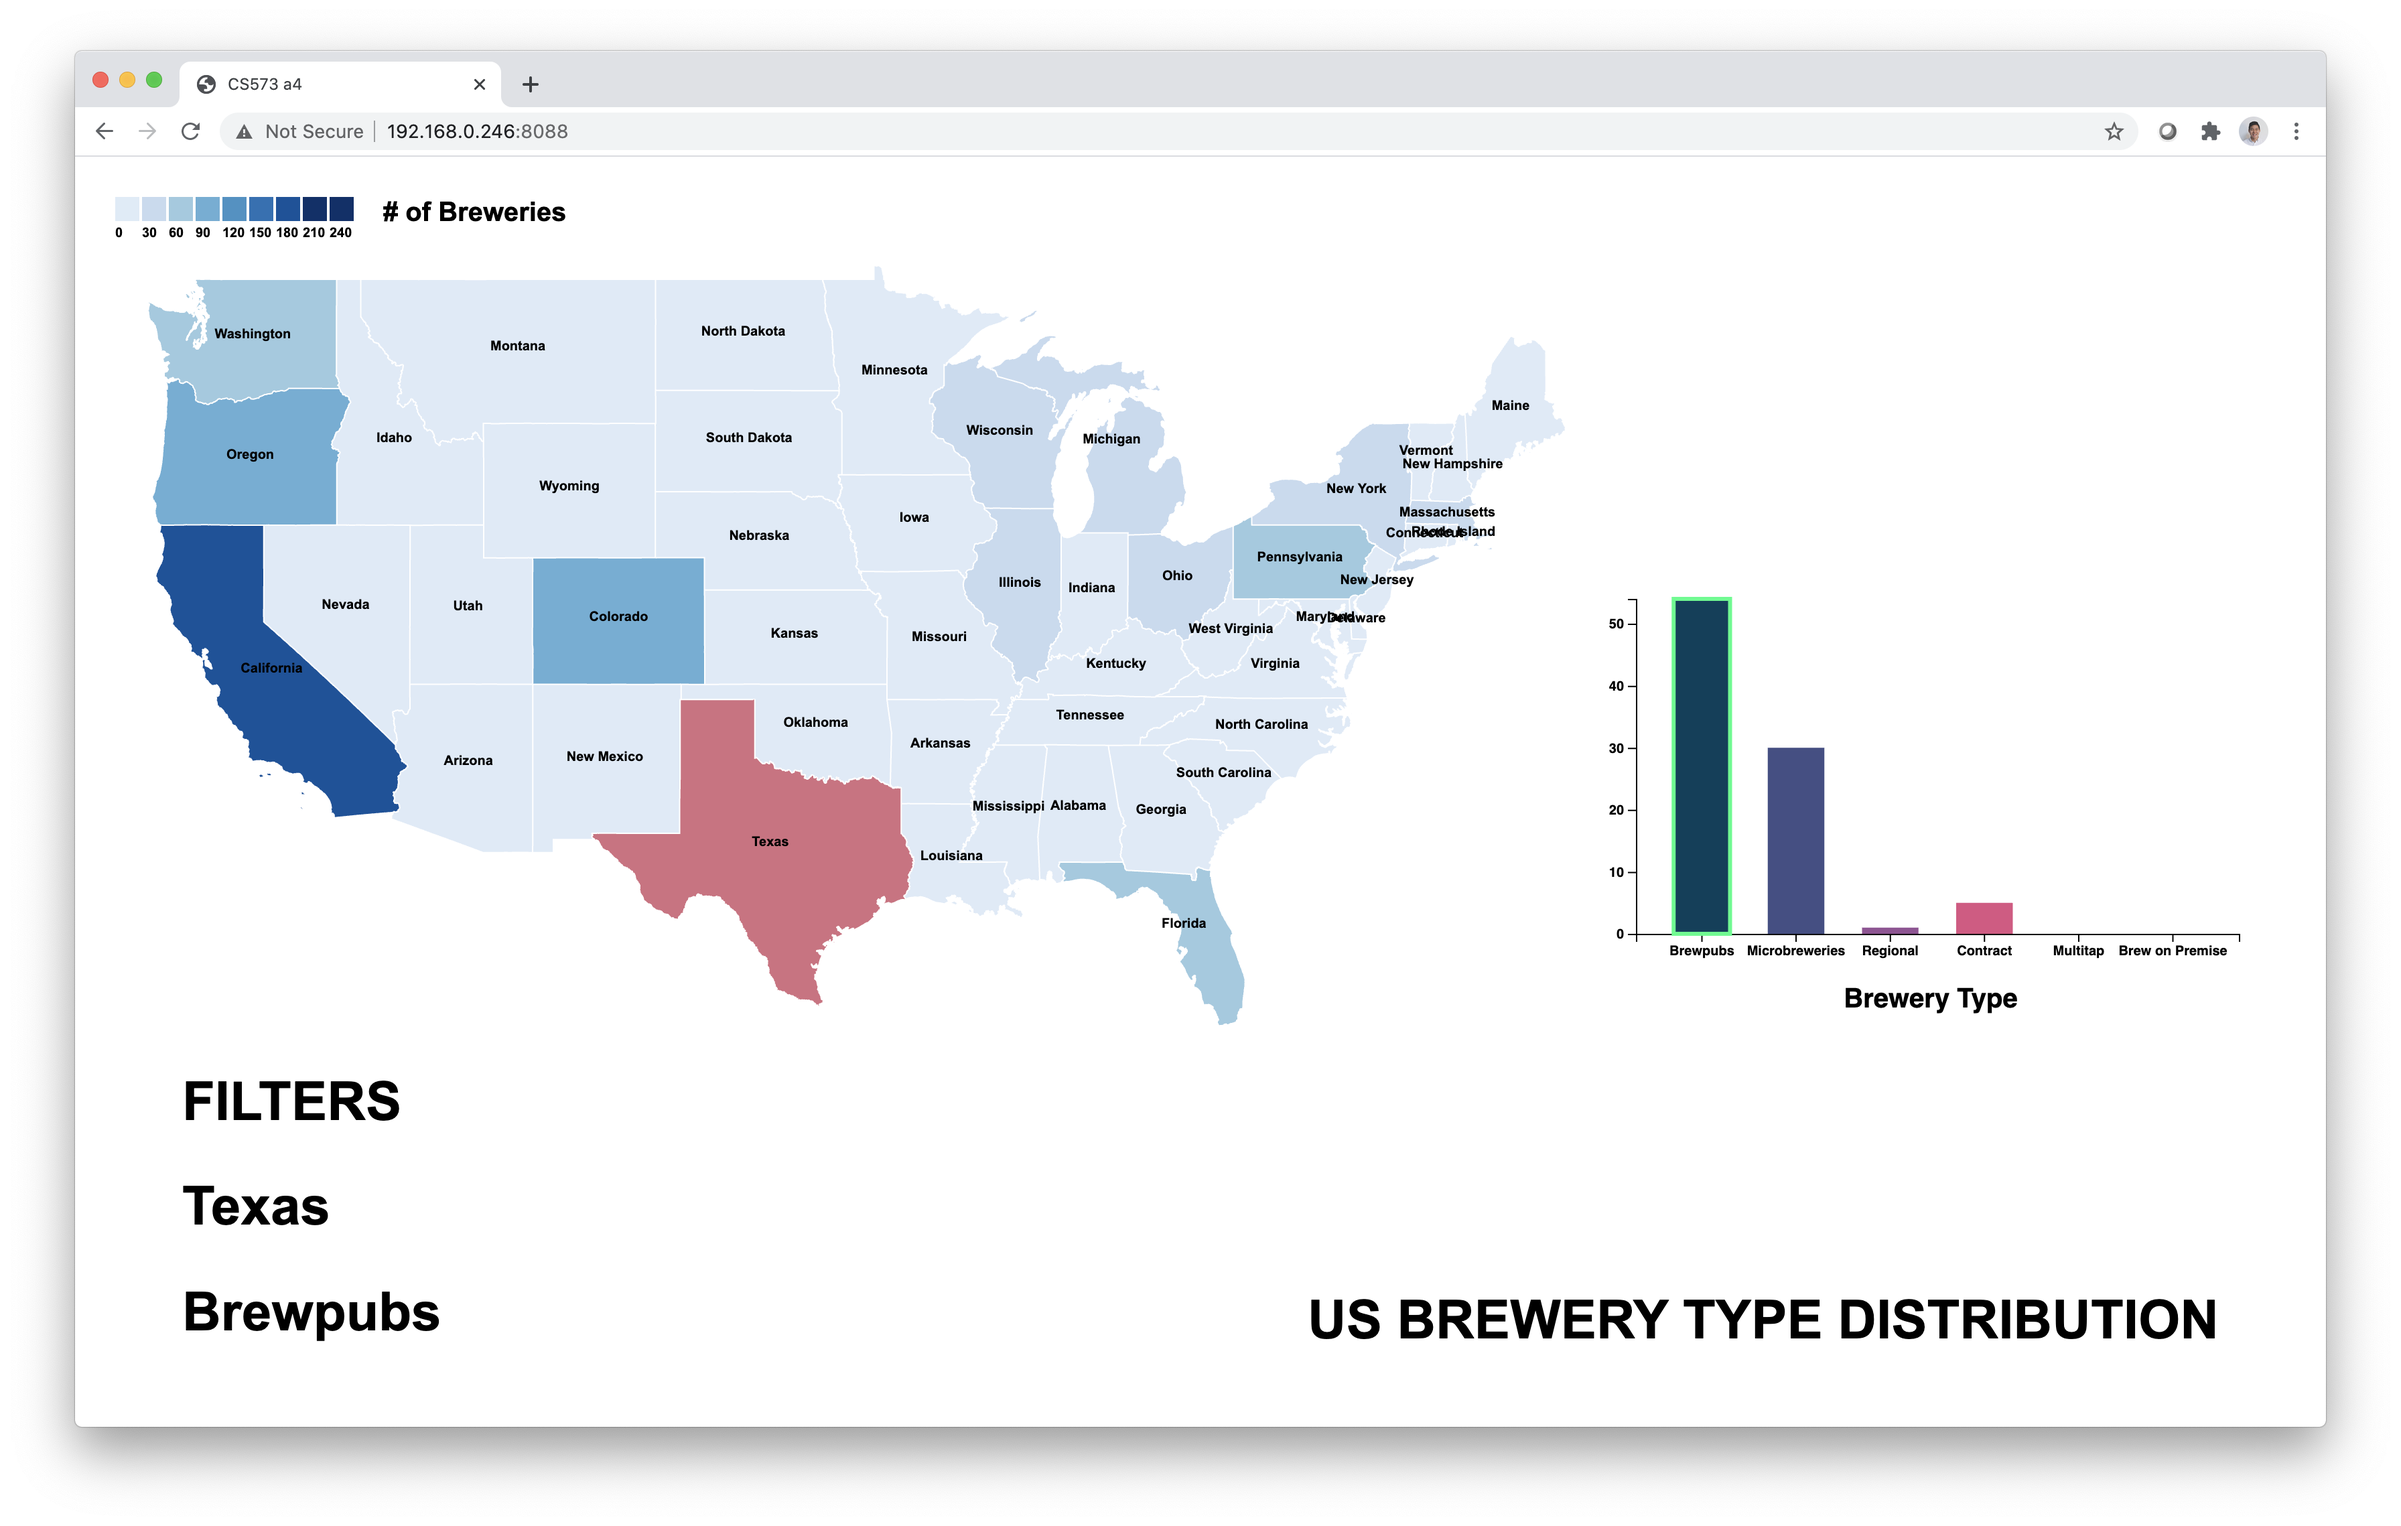
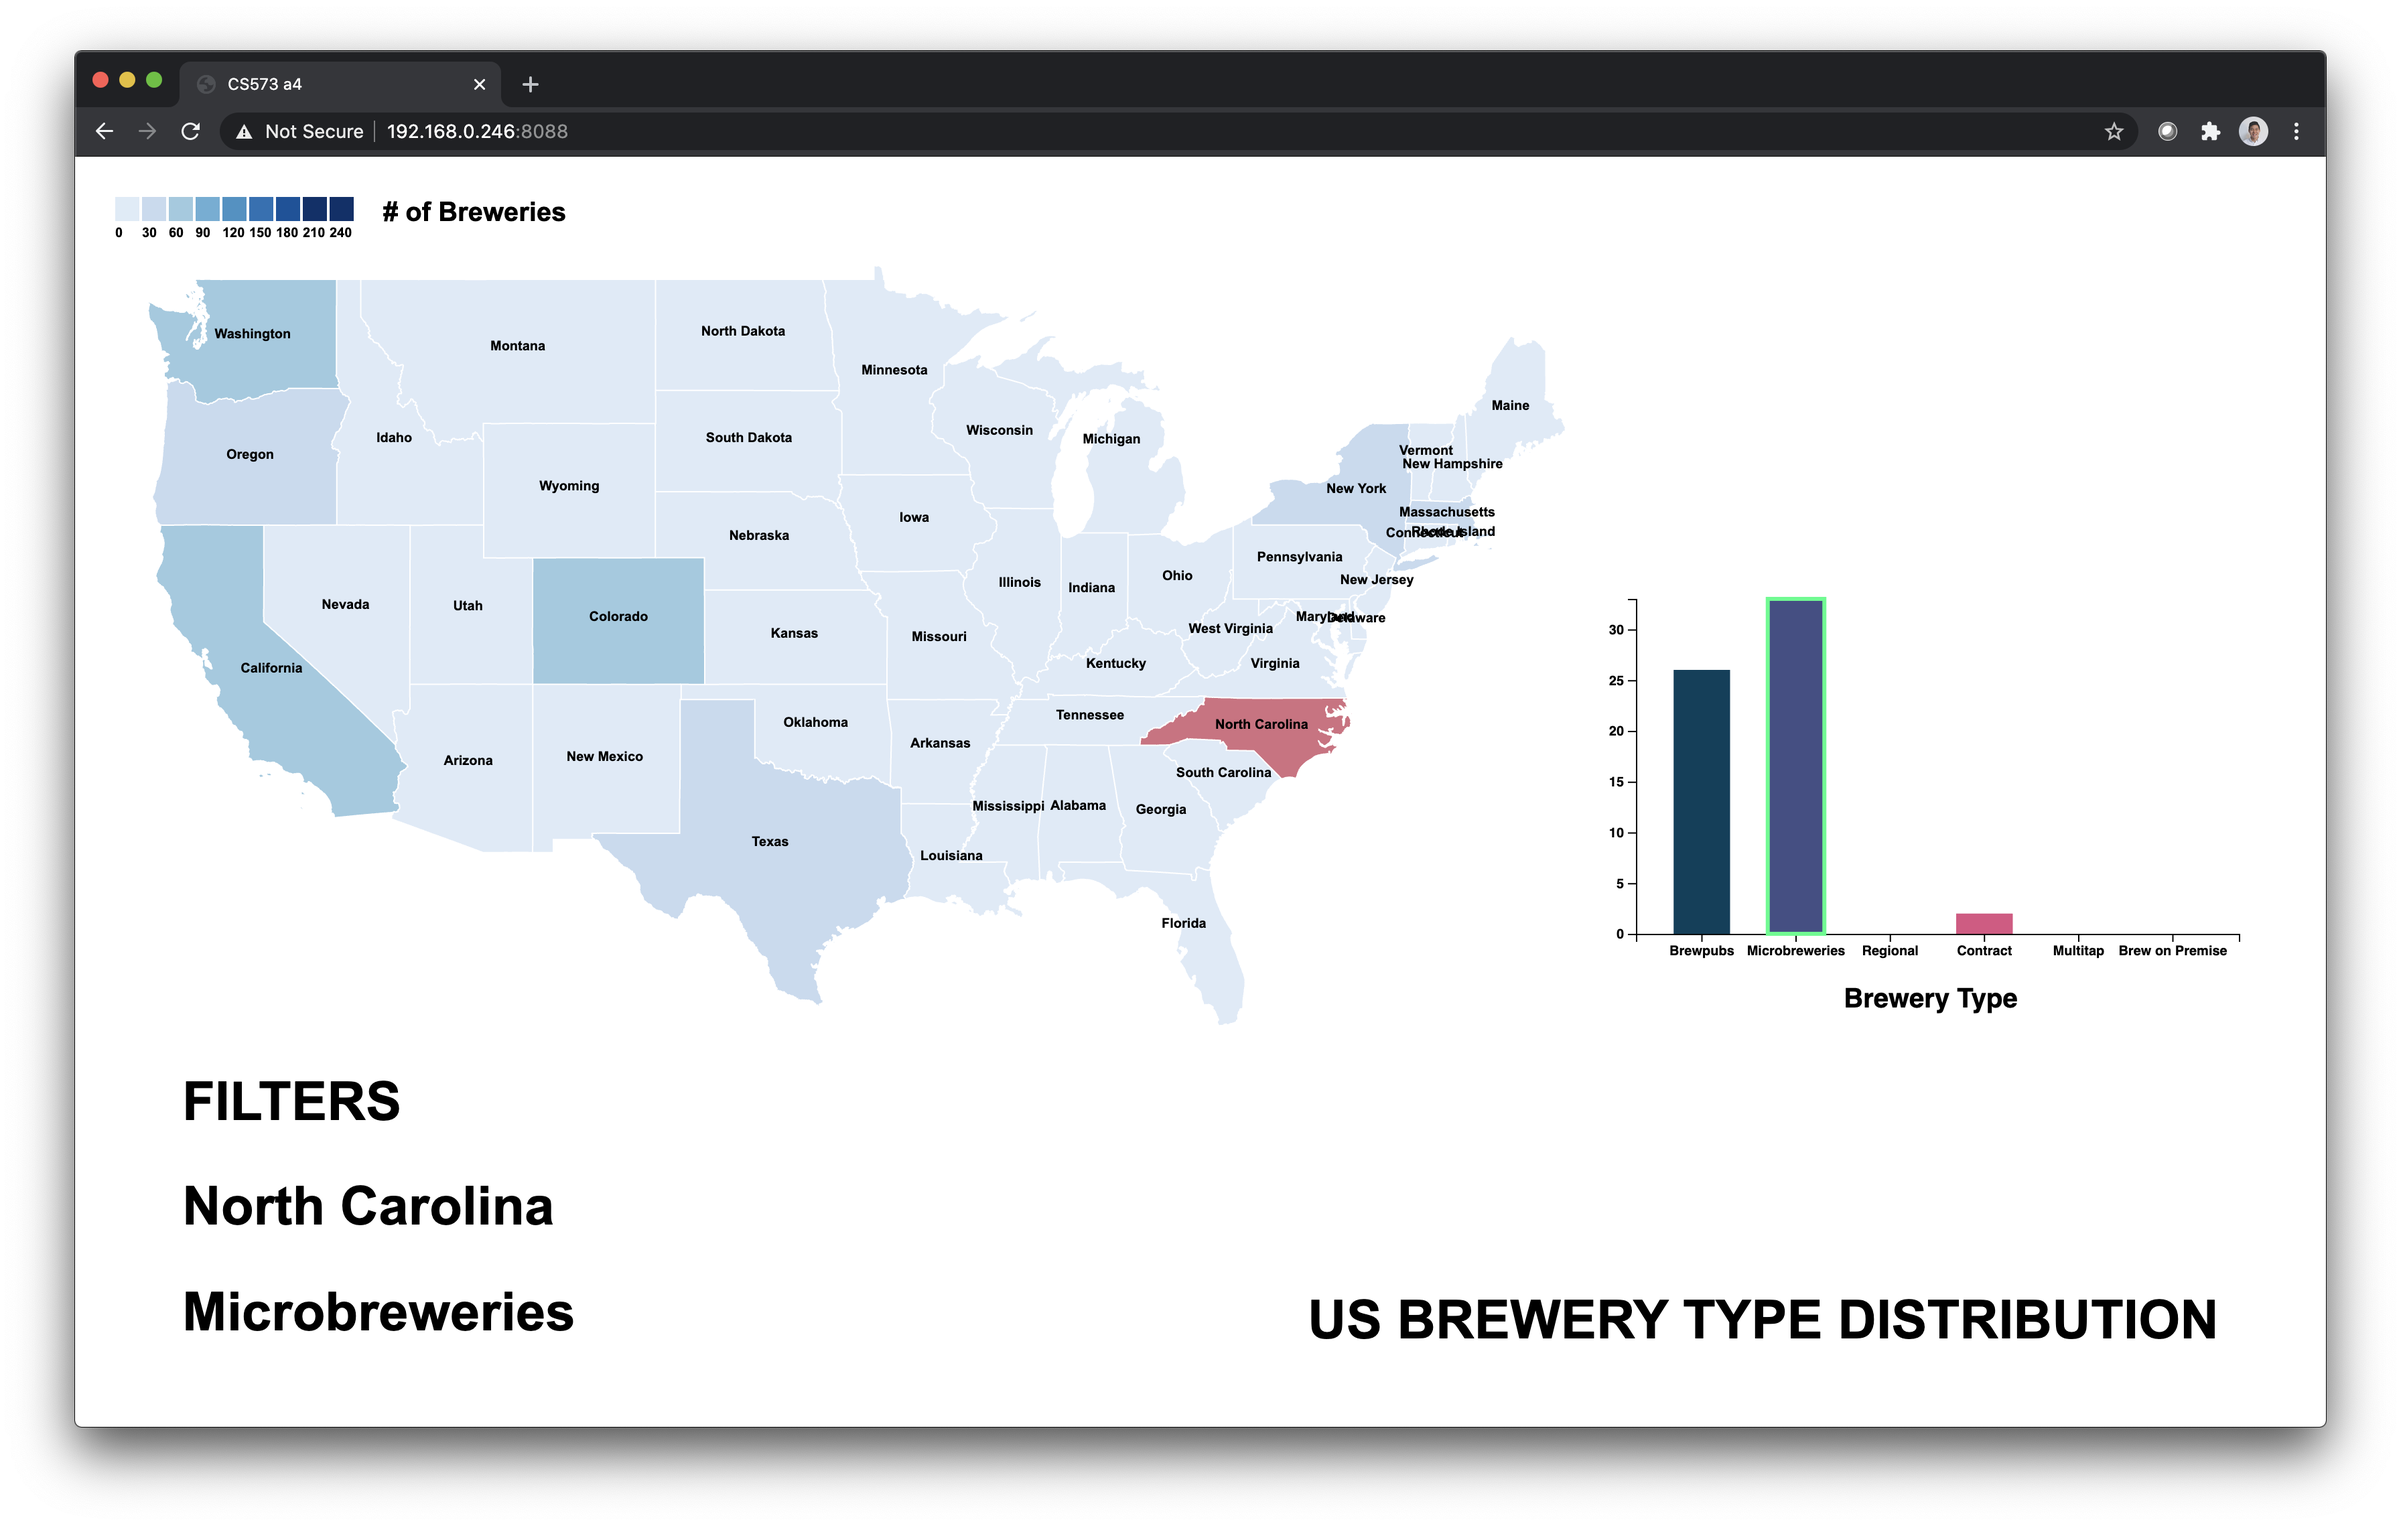
updated readme and added new photo

diff --git a/README.md b/README.md
@@ -7,26 +7,44 @@ Joseph Yuen
 
 Project Link
 ---
-dfdsajfkdsjflsadfjsd
+https://jhyuen.github.io/04-multiple-views/
 
 Project
 ===
 ### Description
-Words are cool
+I explored the distribution of breweries in the US. Even though I am not overly familiar with this topic, there are 6 main types: brewpubs, microbreweries, regional, contract, multitap, and brew on premise. 
+
+To visualize this data, I created an interactive map linked to a bargraph in d3. By default, the map shows the total number of breweries in each state through color. As you can see, California has the most breweries likely due to its popular brew culture and larger population.
+
+A user can click on a state and discover the distribution of breweries in that state in the bargraph to right. Each bar represents a brewery type and is shown next to the other types for easy comparison. A user can click on the bars for each type of brewery. Doing so will update the colors on the map. Once a type is selected, then the number of only that type of brewery is colored. In short, the map changes the distribution of the bargraph, and the bargraph changes the colors of each state.
 
 ### Screenshots
-![Matplotlib](img/matplotlib-2.png)
-![Matplotlib - edit interface](img/matplotlib-1.png)
+Default
+![default](images/default.png)
+State Filter
+![state-filter](images/state-filter.png)
+Brewery Filter
+![type-filter](images/type-filter.png)
+State and Brewery Filter
+![state-type-filter](images/state-type-filter.png)
+
 
 Achievements
 ===
 ## Technical
-1. **Python Data Cleaning** - As libraries such as ggplot2 automatically eliminated Weight MPG pairs with NA values, I eliminated rows that had NA values in MPG. By doing so, all of my graphs looked the same as some libraries caused NA values to either default to 0 or mark at the top of my graph. 
-
+1. **Python Data Cleaning** - I originally found this dataset on Kaggle as it had a 10/10 usability rating. Despite this rating, the data did not have any data for Mississippi and included Puerto Rico and D.C as states. I discovered this fact through manipulating the data with Pandas dataframes and Numpy functions. For Mississippi, I set all of its NaN values to 0 so that it would still show up as a state. I also performed some data manipulation in Excel to add an entry for the entire United States.
+![python](images/python.png)
+2. **Tooltip** - In the bargraph that displays the distribution of brewery types, I added a hover tooltip that shows the actual value of the selected bar as seen in the image below.
+![tooltip](images/tooltip.png)
+3. **Manipulated GeoJson Data** - In order to save space and allow the mainland states to be readable, I deleted Alaska and Hawaii coordinates in the JSON file so that it would not be drawn on the map.
+4. **Bargraph Dynamic Y-Axis** - Instead of keeping the same y-axis values for each state, I configured the graph to make the largest bar as the max for the given graph. Doing so allows the users to more easily see the other categories. 
 
 ## Design
-1. **Eliminated Alaska and Hawaii** -   
-2. 
+1. **Eliminated Alaska and Hawaii** - When I initially drew the map with the geojson data I found online, Alaska and Hawaii were extremely large and shrunk the size of the US mainland. To make an easier reading experience, I deleted Alaska and Hawaii in the design of the vis. 
+2. **Created Custom Map Key** - The method I used to make the map did not include a built in function to create a map legend. By using my colorscale intervals, I created a custom key to show what each color represents.
+![key](images/key.png)
+3. **Current Filter Text** - Although I use colors to show the filtered state and filtered brewery type, I wanted to also have another method to show the user what they've selected. Even though it's relatively simple, I believe this is necessary just in case a user is not able to notice the highlights I implemented. 
+![filters](images/filters.png)
 
 Resources
 ===
